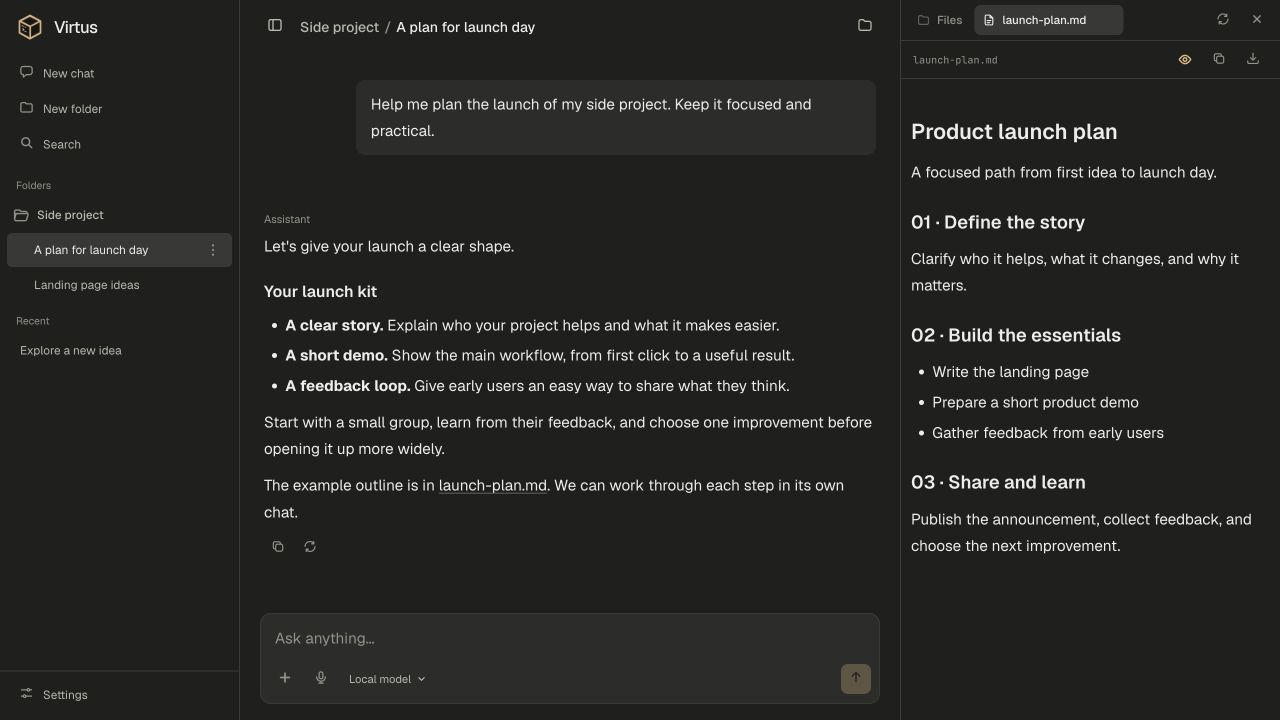
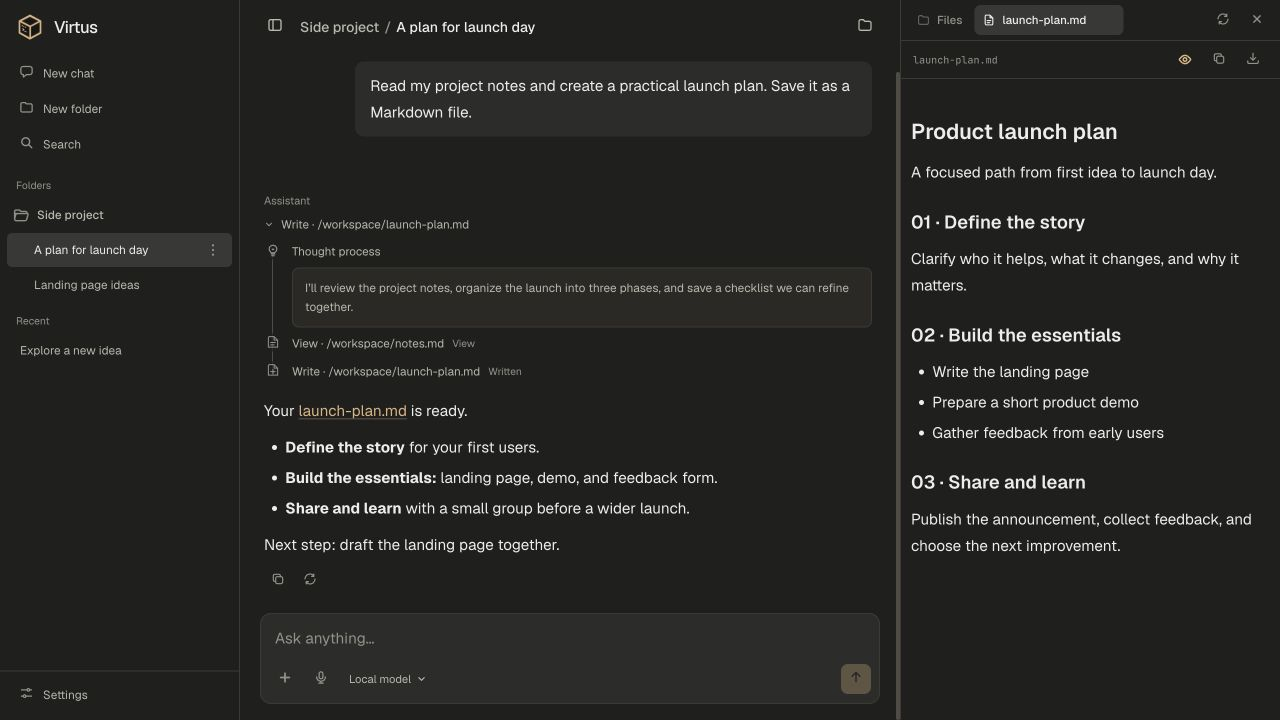
update Readme

Changed region(s): [[0.1875, 0.3972, 0.6875, 0.7639], [0.2812, 0.0917, 0.6562, 0.1833], [0.1875, 0.275, 0.4062, 0.3667]]

diff --git a/README.md b/README.md
@@ -59,12 +59,22 @@ Click a screenshot to view it at full size.
 <table>
   <tr>
     <td width="50%">
-      <a href="docs/images/virtus-workspace.jpg"><img src="docs/images/virtus-workspace.jpg" alt="An example conversation beside a rendered Markdown workspace file in dark mode." width="100%" /></a>
+      <a href="docs/images/virtus-workspace.jpg"><img src="docs/images/virtus-workspace.jpg" alt="The launch-plan conversation with an expanded thinking block, View and Write tool calls, and the finished Markdown file beside it." width="100%" /></a>
       <p align="center"><strong>Chat and file previews</strong></p>
     </td>
     <td width="50%">
       <a href="docs/images/virtus-folders.jpg"><img src="docs/images/virtus-folders.jpg" alt="A folder home showing its conversations and shared workspace file tree." width="100%" /></a>
       <p align="center"><strong>A home for each project</strong></p>
+    </td>
+  </tr>
+  <tr>
+    <td width="50%">
+      <a href="docs/images/virtus-thinking.jpg"><img src="docs/images/virtus-thinking.jpg" alt="The launch-plan conversation with an expanded thinking block and a View tool call showing project notes." width="100%" /></a>
+      <p align="center"><strong>Thinking and tool activity</strong></p>
+    </td>
+    <td width="50%">
+      <a href="docs/images/virtus-tools.jpg"><img src="docs/images/virtus-tools.jpg" alt="A close view of the launch-plan tool timeline with an expanded Write call, the file path, size, and result." width="100%" /></a>
+      <p align="center"><strong>Tool calls in detail</strong></p>
     </td>
   </tr>
   <tr>
